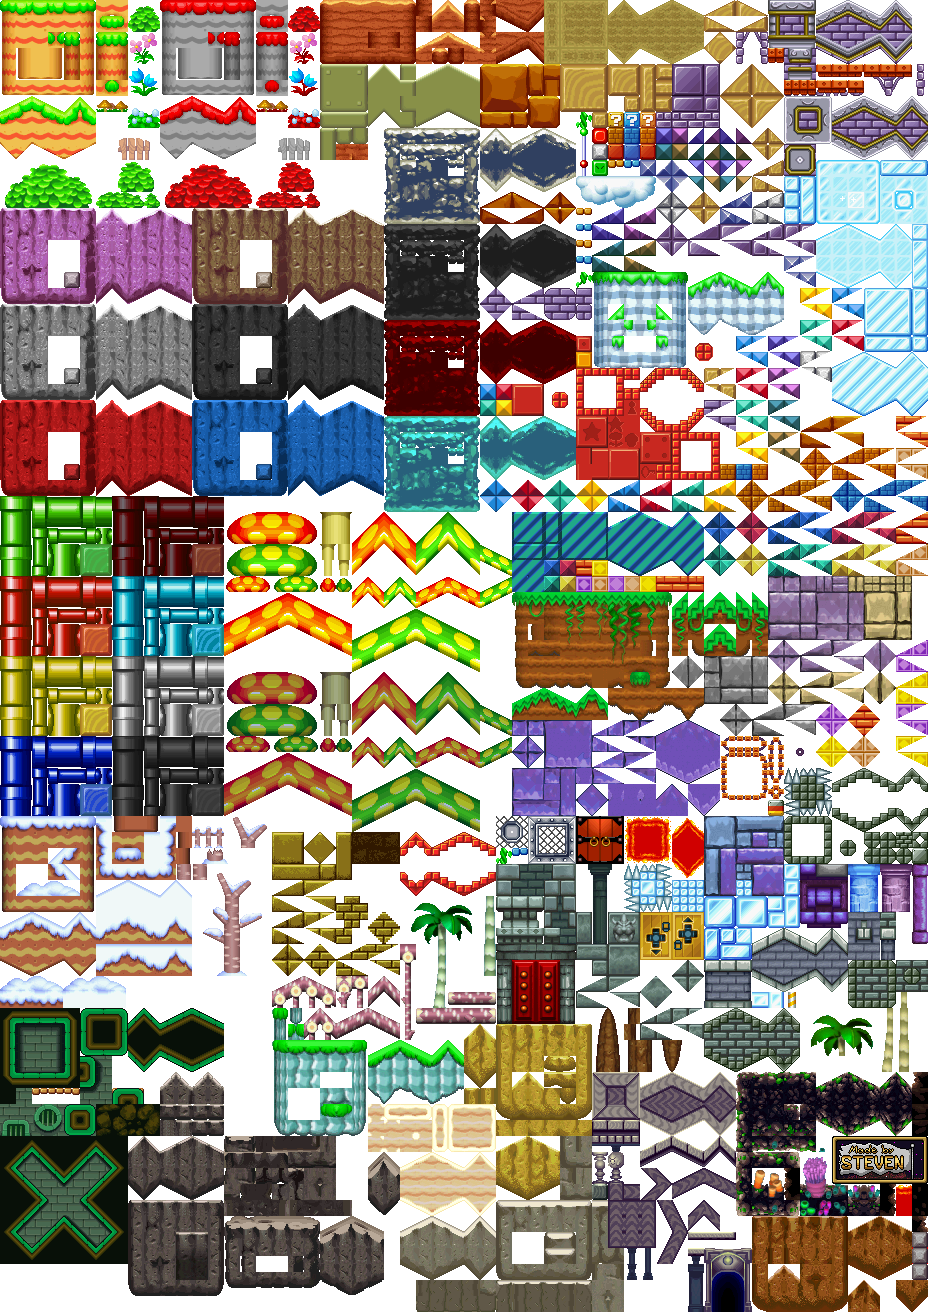
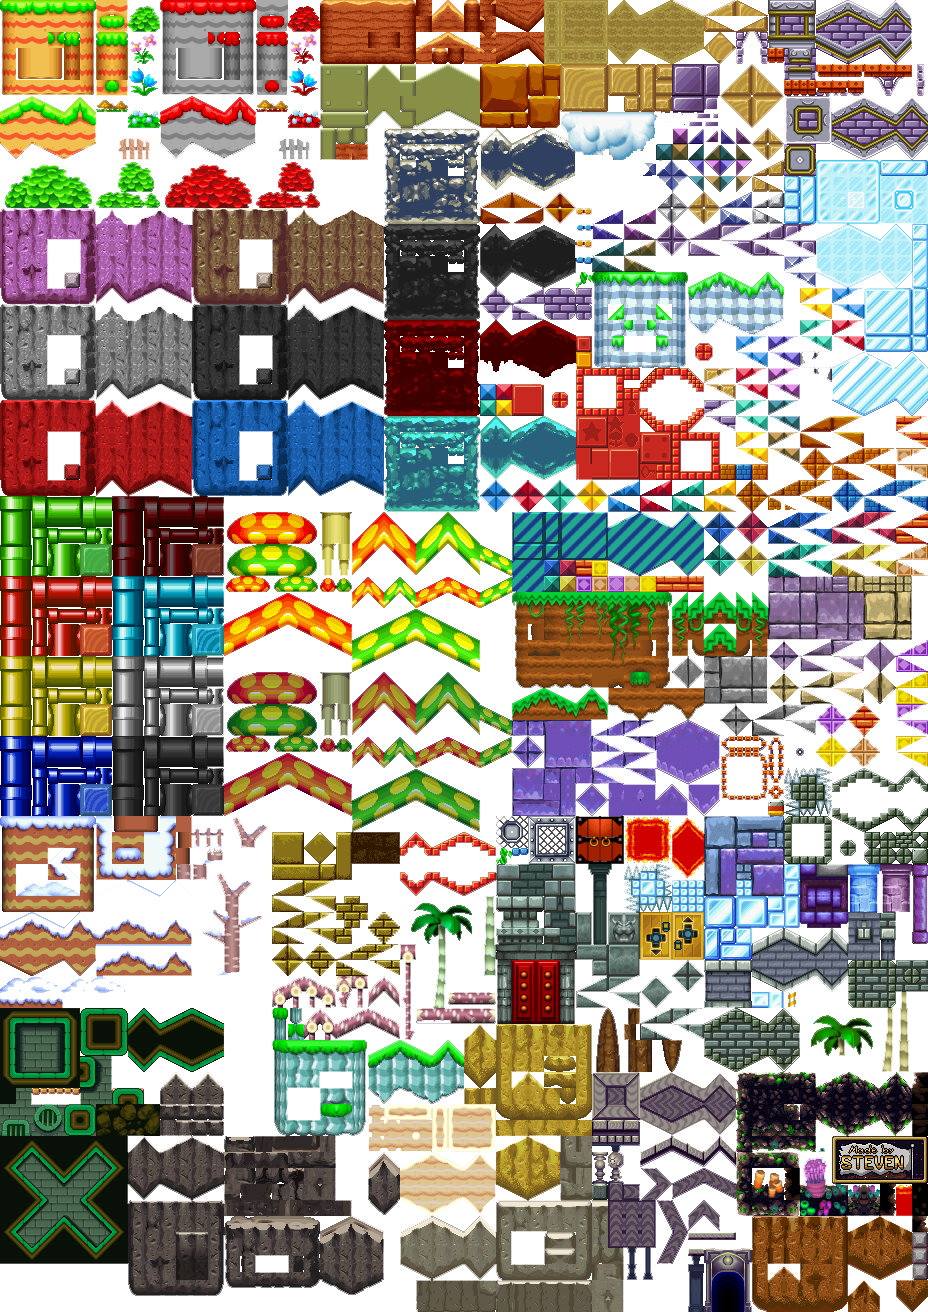
Added a second world

diff --git a/src/game_logic/WorldTwo.java b/src/game_logic/WorldTwo.java
@@ -16,20 +16,20 @@ import org.newdawn.slick.state.BasicGameState;
 import org.newdawn.slick.state.StateBasedGame;
 import org.newdawn.slick.tiled.TiledMap;
 
-public class WorldOne extends BasicGameState
+public class WorldTwo extends BasicGameState
 {   
     //private Image Map;
     boolean quit = false;
     private TiledMap map;
     private Bowser bowser;
-    public WorldOne(int State){}
-    int x =5;
-    int y =5;
+    public WorldTwo(int State){}
+    int x =1;
+    int y =18;
     // make bowser at the beginning
     public void init(GameContainer gc, StateBasedGame sbg)throws SlickException
     {
        //tiled map with 3 layers: background, flowers, and buildings
-       map = new TiledMap("res/worldOneMap.tmx");
+       map = new TiledMap("res/worldTwoMap.tmx");
       
        //sets the max frames per second
        int maxFPS = 60;
@@ -50,17 +50,14 @@ public class WorldOne extends BasicGameState
     public void update(GameContainer gc, StateBasedGame sbg, int delta)
            throws SlickException
     {
-       int objectLayer = map.getLayerIndex("Buildings");
+       int objectLayer = map.getLayerIndex("Tile Layer 2");
        map.getTileId(0,0, objectLayer);
-       int itemsLayer = map.getLayerIndex("Items");
-       map.getTileId(0,0, itemsLayer);
        
        Input input = gc.getInput();
        
        counter+=delta;
        if(counter>=5000)
        {
-     
            if(input.isKeyDown(Input.KEY_W))
            {
               if(map.getTileId(x,y-1,objectLayer)==0)
@@ -93,13 +90,13 @@ public class WorldOne extends BasicGameState
            //entering a new state that represents the room.
            if(x==11 && y==7)
            {   
-              sbg.enterState(4);
+              sbg.enterState(1);
            }
           counter = 0;
        }
        
                                
     } 
-    public int getID() { return 3; }
+    public int getID() { return 4; }
   
 }

diff --git a/src/game_logic/Game.java b/src/game_logic/Game.java
@@ -10,6 +10,7 @@ public class Game extends StateBasedGame{
     public static final int play = 1;
     public static final int backpack = 9;
     public static final int worldOne = 3;   
+    public static final int worldTwo = 4;  
     public static final int test01 = 901;
     
     public Game(String gamename){
@@ -18,14 +19,18 @@ public class Game extends StateBasedGame{
         this.addState(new Play(play));
         this.addState(new Backpack(backpack));
         this.addState(new WorldOne(worldOne));
-        this.addState(new Test01(test01));
+        this.addState(new WorldTwo(worldTwo));
+       // this.addState(new Test01(test01));
     }
     public void initStatesList(GameContainer gc) throws SlickException{
         this.getState(menu).init(gc, this);
         this.getState(play).init(gc, this);
         this.getState(backpack).init(gc, this);
-        this.getState(test01).init(gc, this);
+     //   this.getState(test01).init(gc, this);
+        this.getState(worldOne).init(gc, this);
+        this.getState(worldTwo).init(gc, this);
         this.enterState(menu);
+
     }
     public static void main(String[] args) {
         AppGameContainer appgc;

diff --git a/src/game_logic/Menu.java b/src/game_logic/Menu.java
@@ -42,6 +42,10 @@ public class Menu extends BasicGameState{
 	      {
 	         sbg.enterState(3);   
 	      }
+	    if(input.isKeyDown(Input.KEY_4))
+       {
+          sbg.enterState(4);   
+       }
 	}
 	
 	public int getID(){

diff --git a/src/game_logic/Test01.java b/src/game_logic/Test01.java
@@ -1,3 +1,4 @@
+/*
 package game_logic;
 
 import java.util.ArrayList;
@@ -53,3 +54,4 @@ public class Test01 extends Play
    
    public int getID() { return 901; }
 }
+*/
